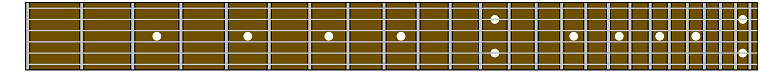
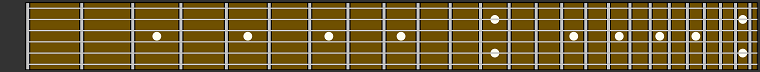
Basic functionality added

Changed region(s): [[0.0, 0.0, 1.0, 1.0]]

diff --git a/sketch.js b/sketch.js
@@ -9,46 +9,60 @@ var stringsSel;
 var generateButton;
 var distanceRadio;
 
+var nameDiv;
+var h2;
+var canvasDiv;
+var canvas;
+var inputDiv;
+
 function preload() {
   fretboard = loadImage("images/fretboard_760.png");
 }
 
 function setup() {
+  
+  nameDiv = createDiv('');
   h2 = createElement('h2', '');
+  h2.parent(nameDiv);
   
-  createCanvas(760, 72);
+  canvasDiv = createDiv('');
+  canvas = createCanvas(760, 72);
+  canvas.parent(canvasDiv);
   
-  createP('');
-  
-  rootSel = createSlider(0, 11, 0, 1);
+  inputDiv = createDiv('');
+  rootSel = createSlider(0, 11, 3, 1);
+  rootSel.parent(inputDiv);
   rootSel.input(setName);
   
   familySel = createSelect();
+  familySel.parent(inputDiv);
   for (var i = 0; i < scales.length; i++) {
     familySel.option(scales[i].family, i);
   }
   familySel.changed(newModes);
 
   modeSel = createSelect();
+  modeSel.parent(inputDiv);
   setModes();
-  modeSel.changed(setName);
+  modeSel.input(setName);
 
   intervalSel = createSelect();
+  intervalSel.parent(inputDiv);
   for (var i = 0; i < intervals.length; i++) {
-    intervalSel.option(intervals[i], i+1);
+    intervalSel.option(intervals[i], i + 1);
   }
   
   stringsSel = createSelect();
+  stringsSel.parent(inputDiv);
   for (var i = 0; i < pairs.length; i++) {
     stringsSel.option(pairs[i][0] + ' and ' + pairs[i][1], i);
   }
 
-  createP('');
-  
   generateButton = createButton('Generate random');
   generateButton.mousePressed(generate);
   
   distanceRadio = createRadio();
+  distanceRadio.style('display', 'inline-block');
   distanceRadio.option('Adjacent strings', 4);
   distanceRadio.option('At most two strings apart', 8);
   distanceRadio.option('At most three strings apart', 11);
@@ -56,6 +70,10 @@ function setup() {
   distanceRadio.option('Any distance', 14);
   
   setName();
+
+  colorMode(HSB);
+  strokeWeight(2);
+  
 }
 
 function setName() {
@@ -83,7 +101,56 @@ function generate() {
 }
 
 function draw() {
-  background(255);
+  background(51);
   image(fretboard, 0, 0);
-  console.log(familySel.value());
+  
+  drawScale(pairs[stringsSel.value()][0], intervalSel.value());
+  drawScale(pairs[stringsSel.value()][1], 0);
+}
+
+function dot(string, fret, hu, root) {
+  if (string < 1 || string > 6 || fret < 0 || fret > 24) {
+    return null;
+  }
+  if (fret == 0) {
+    x = 13
+  } else {
+    x = 990 - 962 * pow (2, - (fret - .5) / 12);
+  }
+  y = string * 11.2 - 3;
+  if (root) {
+    stroke(0, 0, 255);
+  } else {
+    stroke(0);
+  }
+  fill(hu, 255, 255);
+  ellipse(x, y, 12, 8);
+  
+  noStroke();
+  fill(0, 0, 255);
+  ellipse(x - 2, y - 1, 3, 2);
+}
+
+function makeMode(scal, deg) {
+  var offset = scal[deg];
+  var shiftedNote;
+  var nMode = [];
+  for (var i = 0; i < 7; i++) {
+    shiftedNote = (scal[(i + deg) % 7] + 12 - offset) % 12;
+    nMode.push(shiftedNote);
+  }
+  return nMode;
+}
+
+function drawScale(string, cOffset) {
+  theMode = makeMode(scales[familySel.value()].notes, modeSel.value());
+  theMode.sort(function(a, b){return a-b});
+  
+  for (var i = 0; i < 7; i++) {
+    var fret = (rootSel.value() + theMode[i] - stringOffset[string]) % 12;
+    var hu = noteHues[(i + 7 - cOffset) % 7];
+    dot(string, fret, hu, i == 0);
+    dot(string, fret + 12, hu, i == 0);
+    dot(string, fret + 24, hu, i == 0);
+  }  
 }

diff --git a/scales.js b/scales.js
@@ -29,3 +29,7 @@ var notes = ['A', 'A#/Bb', 'B', 'C', 'C#/Db', 'D', 'D#/Eb', 'E', 'F', 'F#/Gb', '
 var intervals = ['2nd', '3rd', '4th', '5th', '6th', '7th'];
 
 var pairs = [[1, 2], [2, 3], [3, 4], [4, 5], [5, 6], [1, 3], [2, 4], [3, 5], [4, 6], [1, 4], [2, 5], [3, 6], [1, 5], [2, 6], [1, 6]];
+
+var stringOffset = [0, 7, 2, 10, 5, 0, 7];
+
+var noteHues = [0, 30, 60, 120, 180, 240, 300];

diff --git a/style.css b/style.css
@@ -1,4 +1,20 @@
-slider {
+body {
+	background-color: #333333;
+}
+
+div {
+	text-align: center;
+}
+
+h1 {
+	color: lightgray;
+}
+
+h2 {
+	color: white;
+}
+
+input {
 	margin: 8px;
 	padding: 4px;
 }

diff --git a/index.html b/index.html
@@ -15,6 +15,6 @@
     <link rel="stylesheet" type="text/css" href="style.css">
   </head>
   <body>
-    <h1>The Horizontal Way</h1>
+    <div><h1>The Horizontal Way</h1></div>
   </body>
 </html>
